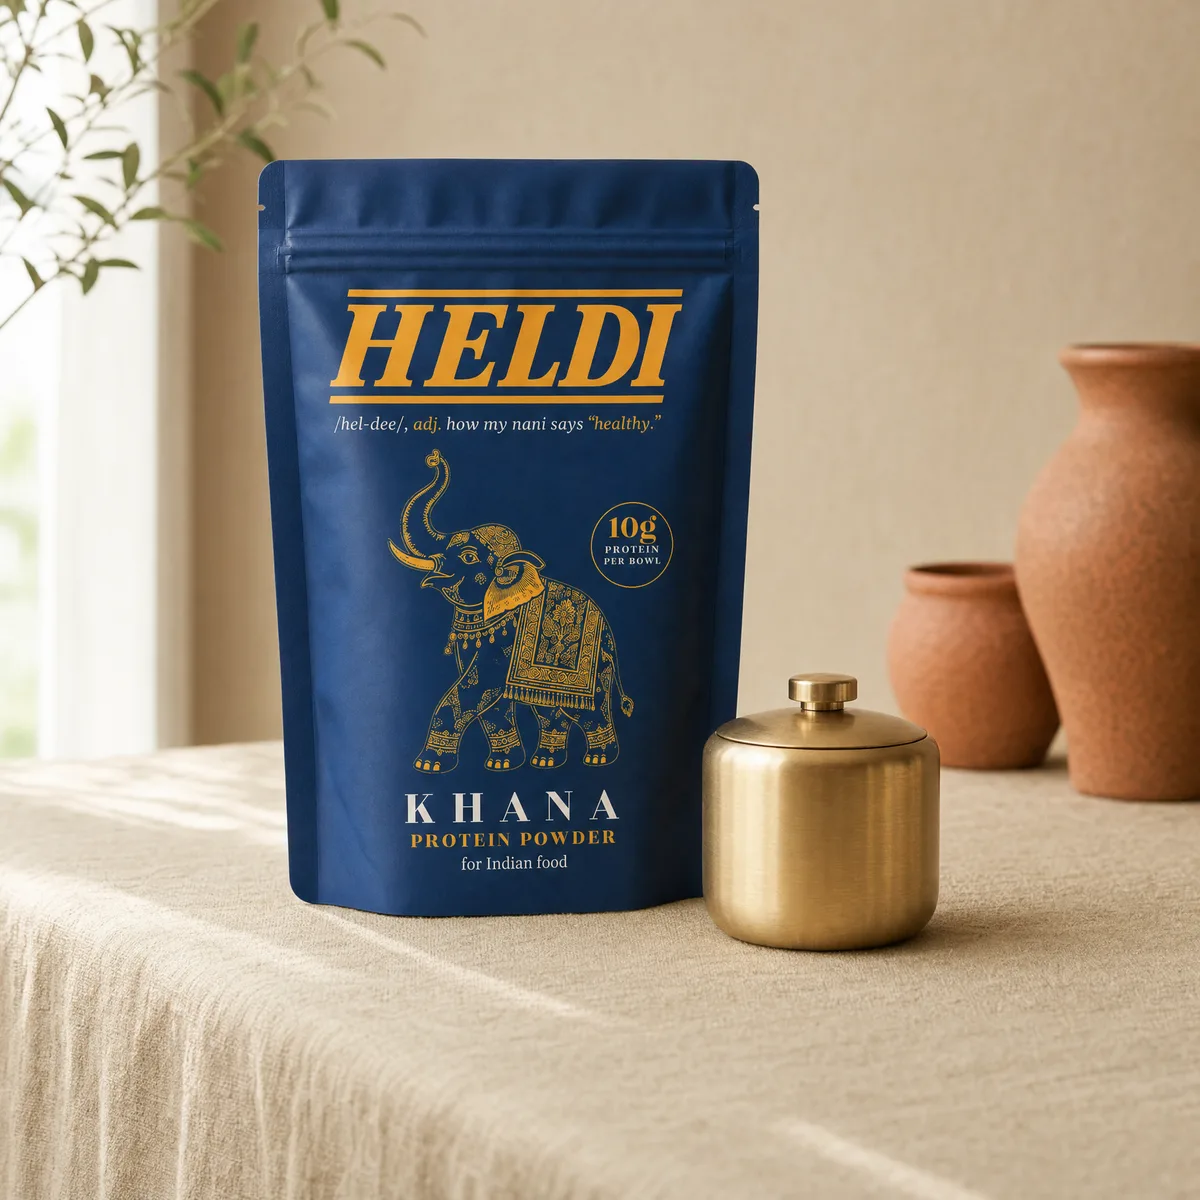
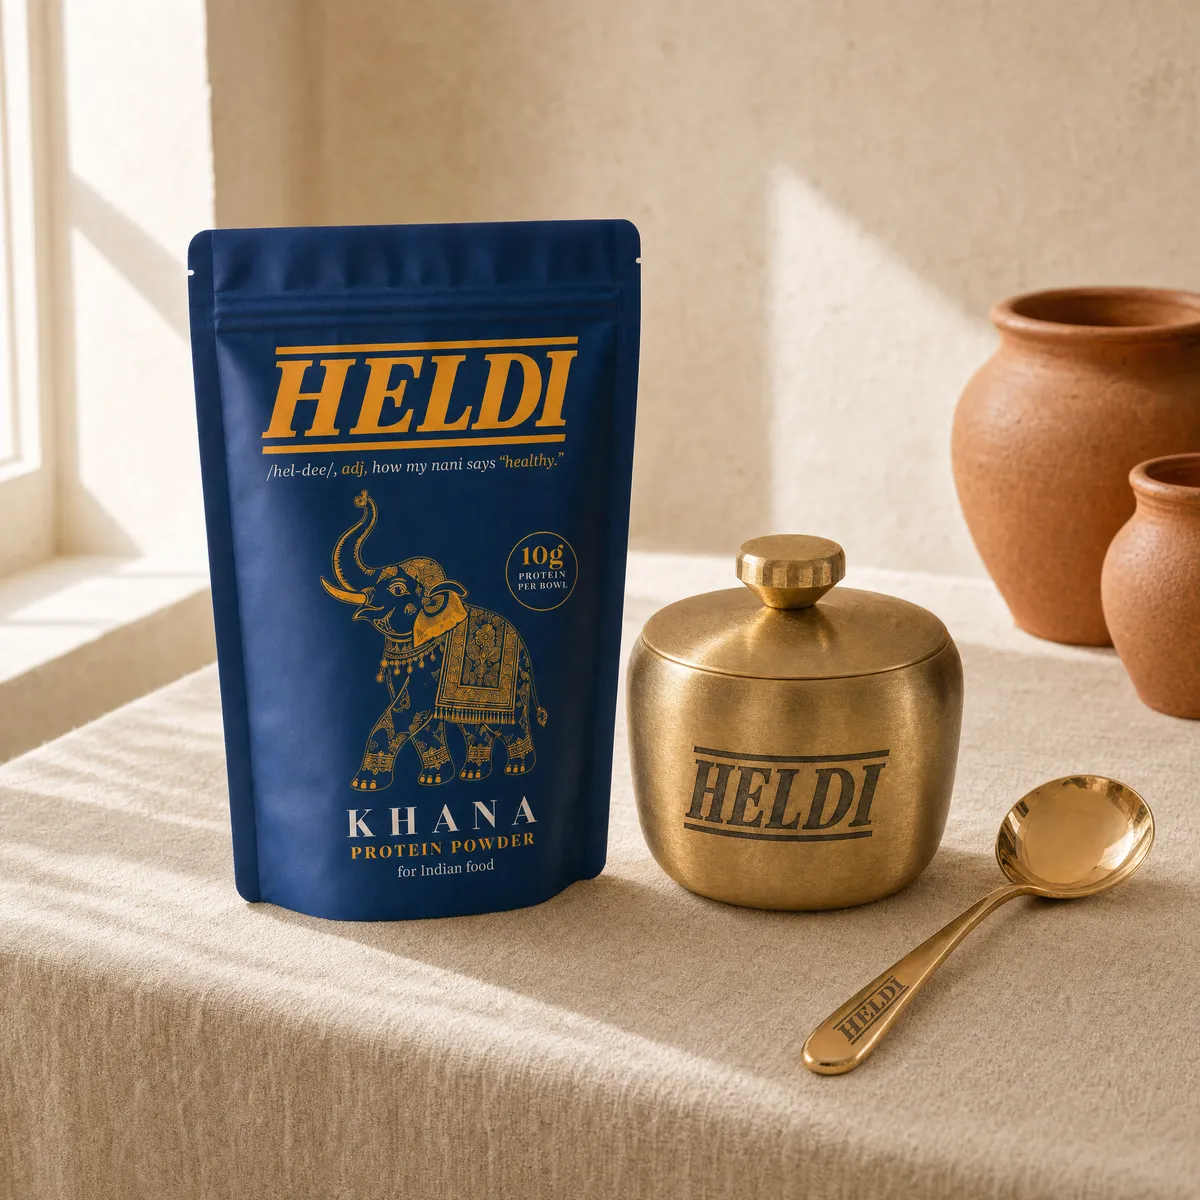
Reshoot the range on the engraved jar, and put the tote where the dabba was
Every product shot on the site carried a jar Heldi was never going to ship: a
plain brass pot with no engraving and no spoon. The real one, confirmed against
a photo of the physical object, is in HeldiPM at design/merch/12-table-jar-brass.png,
with the HELDI lockup etched into the front and a slot in the rim for its spoon.
The spoon itself changed too, to a wider mirror-gold serving spoon engraved
along the handle.

Reshot on GPT Image 2 with four references rather than descriptions: the real
jar, the pouch fronts, the approved tote, and public/images/heldi-wordmark.png
itself, which is what finally got the engraving right. Describing the wordmark
produced an upright roman serif every time; handing over the artwork produced
the actual italic slab-serif lockup with its two slanted rules, on both the jar
front and the spoon handle.

New line-up, matching what an order now earns:

  khana-1              1 Khana, jar, spoon
  chai-1               1 Chai, jar, spoon
  khana-bundle-2       2 Khana, jar, spoon, tote
  chai-bundle-2        2 Chai, jar, spoon, tote
  khana-chai-pair      1 of each, jar, spoon, tote   (new)

All five at 1200px and under 210KB, inside the §15 ceiling of 2x the 899px
mobile render.

Retired outright: khana-bundle-3 and chai-bundle-3 (three pouches and an open
dabba, a basket that can no longer be bought), gift-masala-dabba.webp, and
gift-jar-gold.webp. gift-jar-brass.webp and gift-tote.webp replace the last two
[…]

diff --git a/lib/commerce/catalog.ts b/lib/commerce/catalog.ts
@@ -105,19 +105,31 @@ export function isGiftLine(line: Pick<CartLine, "merchandise">): boolean {
 }
 
 // ?v= busts the Next image-optimizer cache when a shot is regenerated in place.
+// Reshot 4 Sep 2026 for the new line-up: the engraved brass jar and its gold
+// spoon replace the plain unengraved jar, the cotton tote replaces the masala
+// dabba, and no shot shows more than two pouches, because two is the ceiling.
+// The `triple` key survives only because TierId still has three members; it
+// now carries the mixed pair, which is a basket a customer can actually buy.
+// It goes when the tier model does.
 const TIER_IMAGES: Record<TierId, { url: string; altText: string }> = {
-  single: { url: "/images/shop/khana-1.webp?v=4", altText: "Heldi Khana pouch with its refillable gold table jar" },
-  double: { url: "/images/shop/khana-bundle-2.webp?v=4", altText: "Two Heldi Khana pouches with their refillable gold and silver table jars" },
-  triple: { url: "/images/shop/khana-bundle-3.webp?v=4", altText: "The full table bundle: three Heldi Khana pouches with refillable table jars and a masala dabba" }
+  single: { url: "/images/shop/khana-1.webp?v=5", altText: "A Heldi Khana pouch beside the engraved brass table jar and its gold spoon" },
+  double: { url: "/images/shop/khana-bundle-2.webp?v=5", altText: "Two Heldi Khana pouches with the engraved brass jar, its gold spoon and the cotton tote bag" },
+  triple: { url: "/images/shop/khana-chai-pair.webp?v=1", altText: "One Heldi Khana pouch and one Heldi Chai pouch with the engraved brass jar, its gold spoon and the cotton tote bag" }
 };
 const SAMPLE_IMAGE = { url: "/images/shop/sample.webp?v=4", altText: "Heldi Sample sachet" };
 
 // Clean pouch-only shot for contents breakdowns (the gallery images show
-// the pouches with their jars and dabba).
+// the pouches with their jar and tote).
 export const POUCH_THUMB = "/images/shop/pouch-solo.webp?v=4";
 
-export const JAR_THUMB = "/images/shop/gift-jar-gold.webp";
-export const DABBA_THUMB = "/images/shop/gift-masala-dabba.webp";
+// New filenames rather than in-place swaps: neither of the old gift thumbs
+// carried a ?v=, and next.config.ts holds optimized images for 31 days, so
+// overwriting them would have served the unengraved jar and the withdrawn
+// dabba for a month.
+export const JAR_THUMB = "/images/shop/gift-jar-brass.webp";
+export const TOTE_THUMB = "/images/shop/gift-tote.webp";
+/** @deprecated The dabba is withdrawn. Kept until the cart stops reading it. */
+export const DABBA_THUMB = TOTE_THUMB;
 export const SAMPLE_THUMB = "/images/shop/sample.webp?v=4";
 
 // A 300g pouch at a 12g serving (see the nutrition declaration; the gram is

diff --git a/components/shop/chai-data.ts b/components/shop/chai-data.ts
@@ -253,20 +253,20 @@ export type ChaiImage = { url: string; altText: string };
  *  Regenerate with a ?v= bump so the image optimizer drops the old one. */
 export const CHAI_IMAGES: ChaiImage[] = [
   {
-    url: "/images/shop/chai-1.webp?v=3",
-    altText: "The terracotta Heldi Chai pouch on a linen table with a refillable brass jar"
+    url: "/images/shop/chai-1.webp?v=4",
+    altText: "The terracotta Heldi Chai pouch beside the engraved brass table jar and its gold spoon"
   },
   {
     url: "/images/shop/chai-pouch-solo.webp?v=3",
     altText: "The Heldi Chai pouch on its own, front facing"
   },
   {
-    url: "/images/shop/chai-bundle-2.webp?v=3",
-    altText: "Two Heldi Chai pouches with brass and steel refillable jars"
+    url: "/images/shop/chai-bundle-2.webp?v=4",
+    altText: "Two Heldi Chai pouches with the engraved brass jar, its gold spoon and the cotton tote bag"
   },
   {
-    url: "/images/shop/chai-bundle-3.webp?v=3",
-    altText: "Three Heldi Chai pouches with refillable jars and an open masala dabba"
+    url: "/images/shop/khana-chai-pair.webp?v=1",
+    altText: "One Heldi Chai pouch and one Heldi Khana pouch with the engraved brass jar, its gold spoon and the cotton tote bag"
   }
 ];
 
